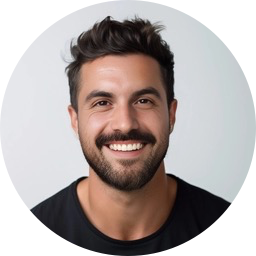
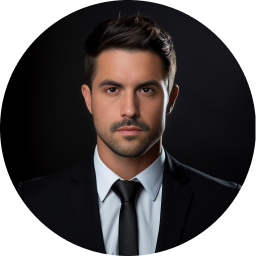
update headshot

diff --git a/components/Avatar.tsx b/components/Avatar.tsx
@@ -20,7 +20,7 @@ const sizeMapping = {
 
 const Avatar: React.FC<AvatarProps> = ({
   size = 'md',
-  src = '/img/headshot.jpg',
+  src = '/img/ali-headshot.jpg',
   alt = 'Avatar image',
   quality = 100,
   priority = false,
